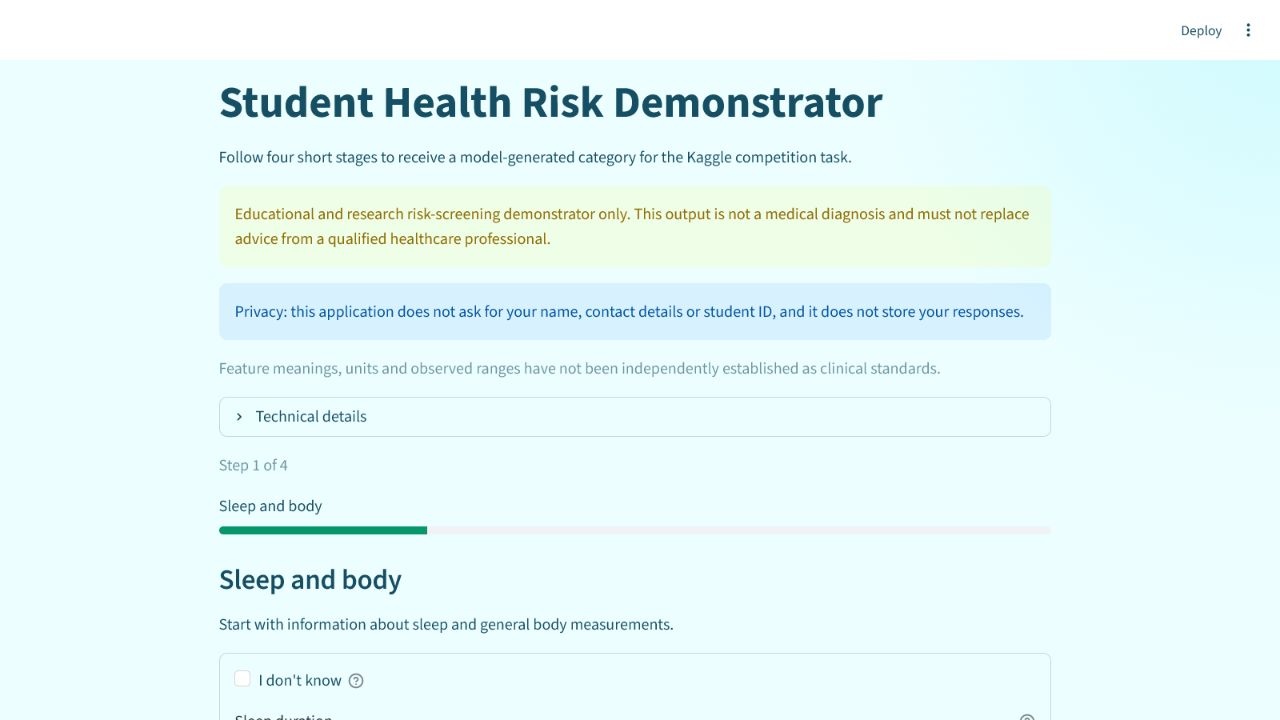
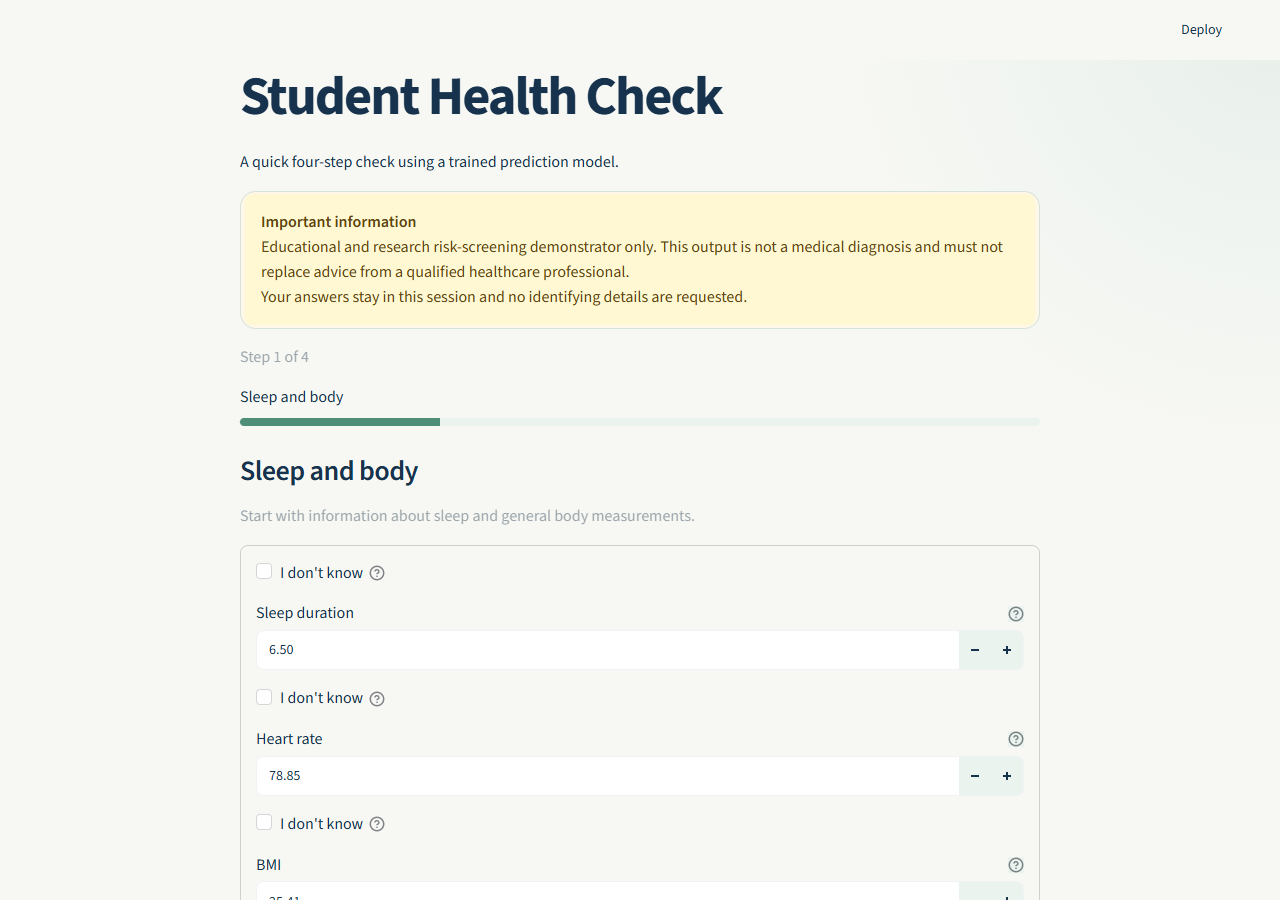
Polish student health check experience

diff --git a/app/theme.py b/app/theme.py
@@ -17,15 +17,15 @@ class ThemePalette:
 
 
 LIGHT_THEME = ThemePalette(
-    primary="#0E7490",
+    primary="#187C72",
     on_primary="#FFFFFF",
-    accent="#059669",
-    background="#ECFEFF",
-    foreground="#164E63",
+    accent="#4F8F79",
+    background="#F7F8F4",
+    foreground="#17324D",
     surface="#FFFFFF",
-    muted_surface="#E8F1F6",
-    border="#A5F3FC",
-    destructive="#DC2626",
+    muted_surface="#EAF3EE",
+    border="#D8E2DC",
+    destructive="#B42318",
 )
 
 DARK_THEME = ThemePalette(
@@ -89,9 +89,10 @@ def build_theme_css(theme_override: str | None = None) -> str:
 <style>
 :root {{
 {_properties(LIGHT_THEME)}
-    --app-alert-surface: #F0F9FF;
-    --app-alert-foreground: #0C4A6E;
-    --app-focus: #F59E0B;
+    --app-alert-surface: #FFF7E8;
+    --app-alert-foreground: #62440E;
+    --app-muted-text: #5F6F7A;
+    --app-focus: #D97706;
 }}
 
 @media (prefers-color-scheme: dark) {{
@@ -115,13 +116,25 @@ body,
 
 [data-testid="stAppViewContainer"] {{
     background-image:
-        radial-gradient(circle at top right, color-mix(in srgb, var(--app-primary) 12%, transparent), transparent 26rem);
+        radial-gradient(circle at top right, color-mix(in srgb, var(--app-primary) 7%, transparent), transparent 28rem);
 }}
 
 [data-testid="stMainBlockContainer"] {{
-    max-width: 58rem;
-    padding-top: 2.5rem;
-    padding-bottom: 4rem;
+    max-width: 52rem;
+    padding-top: 2rem;
+    padding-bottom: 3rem;
+}}
+
+[data-testid="stMainBlockContainer"] h1 {{
+    font-size: clamp(2.25rem, 6vw, 3.4rem);
+    line-height: 1.05;
+    letter-spacing: -0.035em;
+    margin-bottom: 0.55rem;
+}}
+
+[data-testid="stMainBlockContainer"] h2,
+[data-testid="stMainBlockContainer"] h3 {{
+    letter-spacing: -0.018em;
 }}
 
 [data-testid="stMainBlockContainer"] h1,
@@ -143,13 +156,15 @@ body,
 }}
 
 [data-testid="stCaptionContainer"] p {{
-    opacity: 0.82;
+    color: var(--app-muted-text) !important;
+    opacity: 1;
 }}
 
 [data-testid="stAlert"] {{
     background: var(--app-alert-surface) !important;
     border: 1px solid var(--app-border) !important;
-    border-radius: 0.75rem;
+    border-radius: 1rem;
+    padding: 0.15rem 0.25rem;
 }}
 
 [data-testid="stAlert"] p,
@@ -163,6 +178,7 @@ body,
     background: var(--app-surface) !important;
     border: 1px solid var(--app-border) !important;
     border-radius: 1rem;
+    box-shadow: 0 10px 30px rgba(23, 50, 77, 0.06);
 }}
 
 [data-testid="stExpander"] details,
@@ -181,6 +197,7 @@ body,
     background: var(--app-surface) !important;
     color: var(--app-foreground) !important;
     border-color: var(--app-border) !important;
+    min-height: 46px;
 }}
 
 [data-testid="stNumberInput"] button {{
@@ -203,8 +220,8 @@ code {{
 [data-testid="stButtonGroup"] button,
 [data-testid="stSegmentedControl"] button {{
     min-height: 44px;
-    border-radius: 0.75rem;
-    font-weight: 700;
+    border-radius: 0.875rem;
+    font-weight: 650;
     background: var(--app-surface) !important;
     border-color: var(--app-border) !important;
     color: var(--app-foreground) !important;
@@ -229,6 +246,12 @@ code {{
     background: var(--app-primary) !important;
     border-color: var(--app-primary) !important;
     color: var(--app-on-primary) !important;
+    box-shadow: 0 8px 18px rgba(24, 124, 114, 0.18);
+}}
+
+.stButton > button[kind="primary"]:hover {{
+    background: #12685F !important;
+    border-color: #12685F !important;
 }}
 
 .stButton > button:not([kind="primary"]) {{
@@ -254,6 +277,10 @@ summary:focus-visible {{
 
 [data-testid="stProgressBarTrack"] > div {{
     background-color: var(--app-accent) !important;
+}}
+
+[data-testid="stProgressBarTrack"] {{
+    background-color: var(--app-muted-surface) !important;
 }}
 
 [data-testid="stDataFrame"] {{

diff --git a/app/streamlit_app.py b/app/streamlit_app.py
@@ -55,19 +55,13 @@ def initialise_state(schema: InferenceSchema) -> None:
 
 
 def render_header() -> None:
-    st.title("Student Health Risk Demonstrator")
-    st.write(
-        "Follow four short stages to receive a model-generated category "
-        "for the Kaggle competition task."
-    )
-    st.warning(DISCLAIMER)
-    st.info(
-        "Privacy: this application does not ask for your name, contact "
-        "details or student ID, and it does not store your responses."
-    )
-    st.caption(
-        "Feature meanings, units and observed ranges have not been "
-        "independently established as clinical standards."
+    st.title("Student Health Check")
+    st.write("A quick four-step check using a trained prediction model.")
+    st.warning(
+        "**Important information**  \n"
+        f"{DISCLAIMER}  \n"
+        "Your answers stay in this session and no identifying details are "
+        "requested."
     )
 
 
@@ -209,7 +203,7 @@ def render_data_entry_step(
     schema: InferenceSchema,
 ) -> None:
     step = GUIDED_STEPS[step_index]
-    st.write(step.description)
+    st.caption(step.description)
     with st.container(border=True):
         for name in step.features:
             render_feature(name, schema)
@@ -268,11 +262,8 @@ def render_result(result: PredictionResult) -> None:
         st.caption("Predicted category")
         st.markdown(f"## {format_category(result.label)}")
         st.write(
-            "This category is a statistical output produced for the Kaggle "
-            "competition task. It does not provide a medical interpretation "
-            "or personal health advice."
+            "A model-generated category for this educational check."
         )
-        st.warning(DISCLAIMER)
         render_confidence_details(result)
         st.button(
             "Start a new check",
@@ -295,10 +286,7 @@ def render_review(
                 render_review_group(step.title, step.features, st.session_state[VALUES_KEY])
         return
 
-    st.write(
-        "Check your responses before asking the verified model to create "
-        "a competition category."
-    )
+    st.caption("Check your answers, then ask the model for a result.")
     values = st.session_state[VALUES_KEY]
     for step in GUIDED_STEPS:
         render_review_group(step.title, step.features, values)
@@ -336,7 +324,7 @@ def render_review(
 
 def render_app() -> None:
     st.set_page_config(
-        page_title="Student Health Risk Demonstrator",
+        page_title="Student Health Check",
         layout="centered",
     )
     inject_styles()

diff --git a/tests/test_streamlit_app.py b/tests/test_streamlit_app.py
@@ -68,11 +68,32 @@ def test_app_exposes_only_the_student_health_check_journey():
         )
         for item in collection
     )
-    assert "Student Health Risk Demonstrator" in visible
+    assert "Student Health Check" in visible
     assert "Step 1 of 4" in visible
     assert "Implementation guide" not in visible
     assert "Appearance" not in visible
     assert not app.segmented_control
+
+
+def test_app_uses_compact_student_facing_copy():
+    app = AppTest.from_file(str(APP)).run(timeout=30)
+    visible = " ".join(
+        item.value
+        for collection in (
+            app.title,
+            app.markdown,
+            app.caption,
+            app.info,
+            app.warning,
+        )
+        for item in collection
+    )
+    assert "Student Health Check" in visible
+    assert "A quick four-step check" in visible
+    assert "Important information" in visible
+    assert "Feature meanings, units and observed ranges" not in visible
+    assert "Kaggle competition task" not in visible
+    assert "EDUCATIONAL WELLNESS DEMONSTRATOR" not in visible
 
 
 def test_app_guides_user_through_four_stages_and_preserves_values():
@@ -130,6 +151,7 @@ def test_result_is_simple_first_and_confidence_details_are_available():
     )
     assert len(app.get("progress")) >= 4
     assert "not calibrated probabilities" in visible
+    assert len(app.warning) == 1
 
 
 def test_every_visible_input_step_offers_i_do_not_know():

diff --git a/tests/test_theme.py b/tests/test_theme.py
@@ -34,7 +34,24 @@ def test_generated_css_contains_paired_theme_and_accessibility_rules():
 
 def test_design_system_candidate_is_not_used_for_white_button_text():
     assert contrast_ratio("#FFFFFF", "#0891B2") < 4.5
-    assert LIGHT_THEME.primary == "#0E7490"
+    assert LIGHT_THEME.primary == "#187C72"
+    assert contrast_ratio(
+        LIGHT_THEME.on_primary,
+        LIGHT_THEME.primary,
+    ) >= 4.5
+
+
+def test_calm_wellness_light_palette_is_used():
+    assert LIGHT_THEME.background == "#F7F8F4"
+    assert LIGHT_THEME.foreground == "#17324D"
+    assert LIGHT_THEME.primary == "#187C72"
+    assert LIGHT_THEME.surface == "#FFFFFF"
+    assert LIGHT_THEME.muted_surface == "#EAF3EE"
+    assert LIGHT_THEME.border == "#D8E2DC"
+    assert contrast_ratio(
+        LIGHT_THEME.foreground,
+        LIGHT_THEME.background,
+    ) >= 4.5
     assert contrast_ratio(
         LIGHT_THEME.on_primary,
         LIGHT_THEME.primary,

diff --git a/docs/superpowers/plans/2026-08-04-calm-wellness-ui.md b/docs/superpowers/plans/2026-08-04-calm-wellness-ui.md
@@ -1,0 +1,102 @@
+# Calm Wellness UI Implementation Plan
+
+> **For agentic workers:** REQUIRED SUB-SKILL: Use superpowers:subagent-driven-development (recommended) or superpowers:executing-plans to implement this plan task-by-task. Steps use checkbox (`- [ ]`) syntax for tracking.
+
+**Goal:** Replace the text-heavy student screen with a calm, compact and accessible wellness interface without changing inference behaviour.
+
+**Architecture:** Keep the existing Streamlit wizard and production inference modules. Change only student-facing copy and the CSS palette/layout, with UI contract and contrast tests protecting the intended experience.
+
+**Tech Stack:** Python, Streamlit, CSS, pytest, Streamlit AppTest
+
+## Global Constraints
+
+- Preserve the 12-feature schema, feature order, validation and CatBoost model.
+- Keep the required non-diagnostic disclaimer and privacy statement visible.
+- Do not add images, animation, navigation or a theme selector.
+- Maintain WCAG AA contrast, visible focus and 44-pixel touch targets.
+- Keep technical implementation details in the separate viva guide.
+
+---
+
+### Task 1: Compact student-facing hierarchy
+
+**Files:**
+- Modify: `tests/test_streamlit_app.py`
+- Modify: `app/streamlit_app.py`
+
+**Interfaces:**
+- Consumes: existing `render_header()`, `render_progress()` and guided stages
+- Produces: compact title/copy and one visible safety/privacy panel
+
+- [ ] **Step 1: Write a failing AppTest assertion**
+
+Assert that the app shows `Student Health Check`, `A quick four-step check`,
+and one `Important information` disclosure while the old long introductory and
+feature-standard sentences are absent.
+
+- [ ] **Step 2: Run the focused test and verify RED**
+
+Run `python -m pytest tests/test_streamlit_app.py::test_app_uses_compact_student_facing_copy -q` and confirm failure on the missing title.
+
+- [ ] **Step 3: Implement minimal copy and hierarchy changes**
+
+Replace the verbose header content with the approved compact heading and one
+combined safety/privacy panel. Shorten stage and review instructions without
+changing widget keys or navigation.
+
+- [ ] **Step 4: Run Streamlit UI tests and verify GREEN**
+
+Run `python -m pytest tests/test_streamlit_app.py -q` and require all tests to pass.
+
+### Task 2: Calm accessible palette and surfaces
+
+**Files:**
+- Modify: `tests/test_theme.py`
+- Modify: `app/theme.py`
+
+**Interfaces:**
+- Consumes: `ThemePalette`, `contrast_ratio()` and `build_theme_css("light")`
+- Produces: warm neutral background, navy text, teal primary and compact card CSS
+
+- [ ] **Step 1: Write failing palette tests**
+
+Assert exact approved light tokens and contrast ratios of at least 4.5:1 for
+body text/background and primary button text/background.
+
+- [ ] **Step 2: Run focused theme tests and verify RED**
+
+Run `python -m pytest tests/test_theme.py -q` and confirm failure against the old cyan palette.
+
+- [ ] **Step 3: Implement palette and layout CSS**
+
+Use warm off-white `#F7F8F4`, navy `#17324D`, teal `#187C72`, white surfaces,
+sage `#EAF3EE`, border `#D8E2DC`, muted slate `#5F6F7A`, and compact spacing.
+Style primary actions, inputs, alerts, cards and progress consistently.
+
+- [ ] **Step 4: Run focused tests and verify GREEN**
+
+Run `python -m pytest tests/test_theme.py tests/test_streamlit_app.py -q` and require all tests to pass.
+
+### Task 3: Evidence and release verification
+
+**Files:**
+- Modify: `README.md`
+- Modify: `reports/evidence/app/runtime-metadata.json`
+
+**Interfaces:**
+- Consumes: completed UI and full test count
+- Produces: accurate documentation and release evidence
+
+- [ ] **Step 1: Update documentation**
+
+Describe the compact wellness presentation and retain the separate viva guide.
+
+- [ ] **Step 2: Run release checks**
+
+Run the full pytest suite, `git diff --check`, parse runtime JSON, scan for
+removed copy, and verify the model SHA-256 against runtime metadata.
+
+- [ ] **Step 3: Commit and publish**
+
+Commit the implementation to `simplify-health-check`, push it, and update pull
+request #3.

diff --git a/README.md b/README.md
@@ -10,8 +10,9 @@ CatBoost model trained for Kaggle competition `playground-series-s6e7`.
 
 ## User experience and privacy
 
-The application is intentionally simple for non-technical users. One health
-check has four guided stages:
+The application uses a compact, calm wellness presentation for non-technical
+users: warm neutral surfaces, high-contrast navy text, teal actions and one
+concise safety/privacy panel. One health check has four guided stages:
 
 1. **Sleep and body**
 2. **Activity and daily habits**
